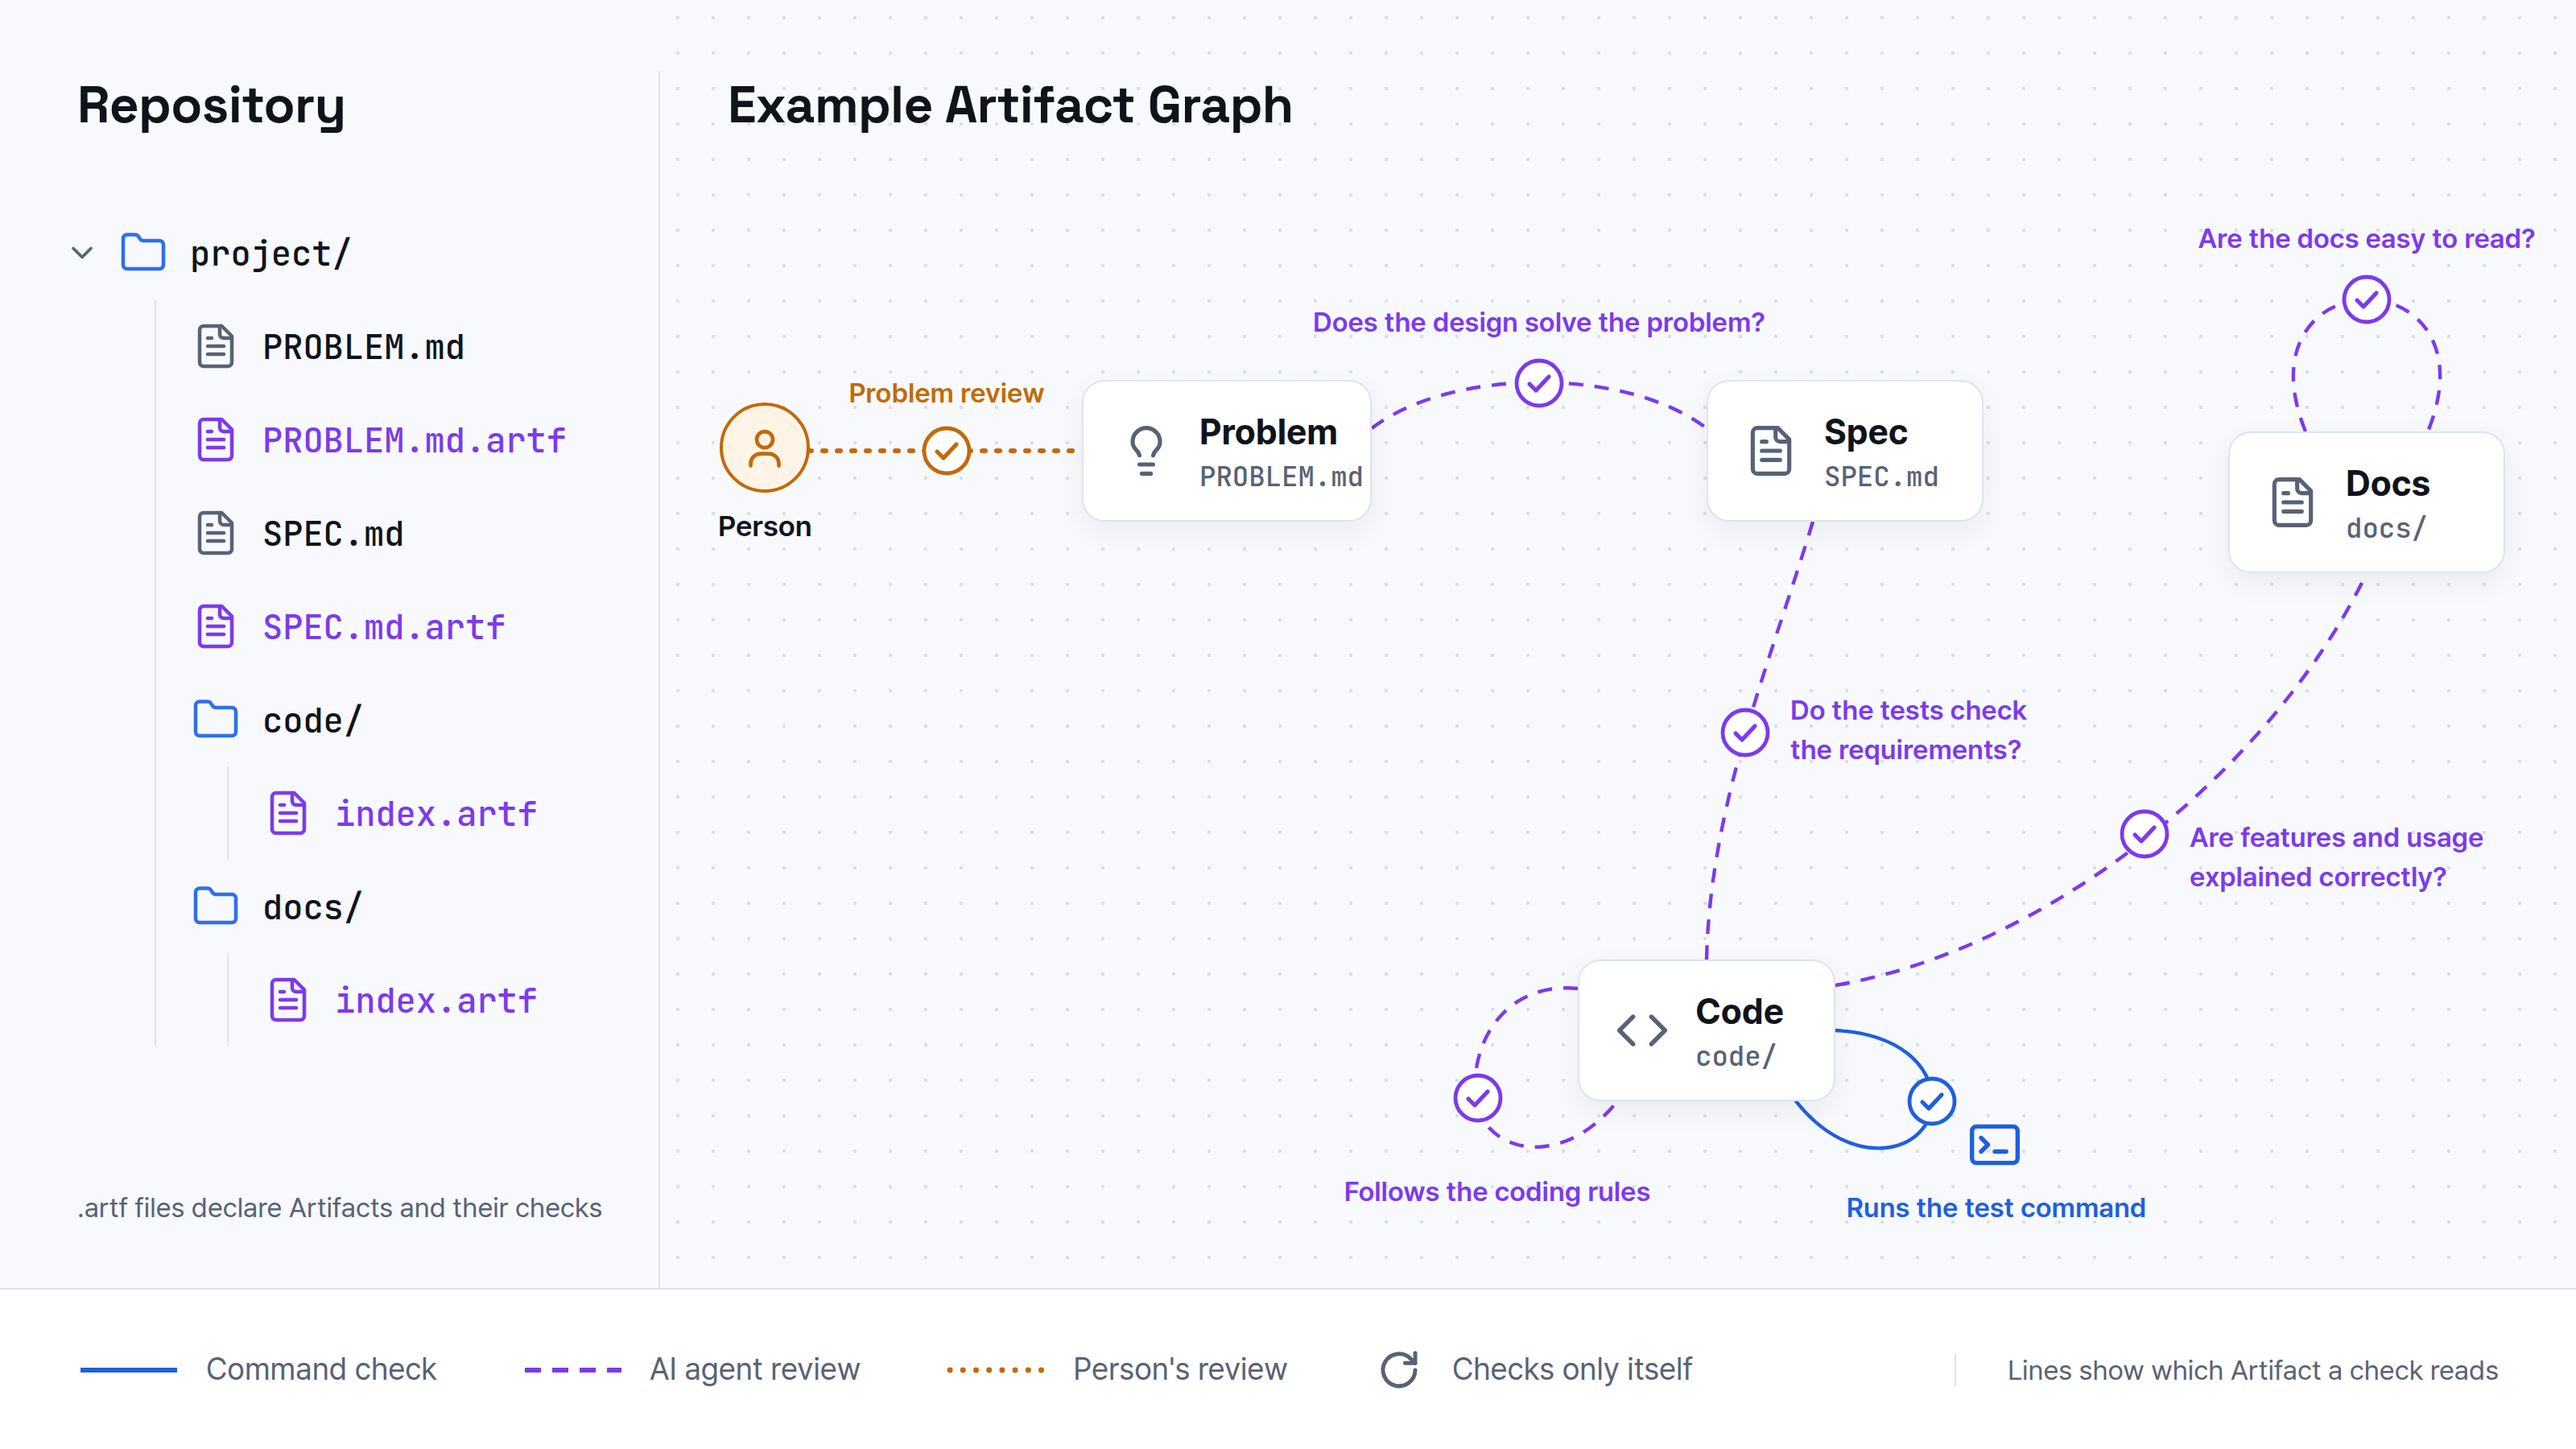
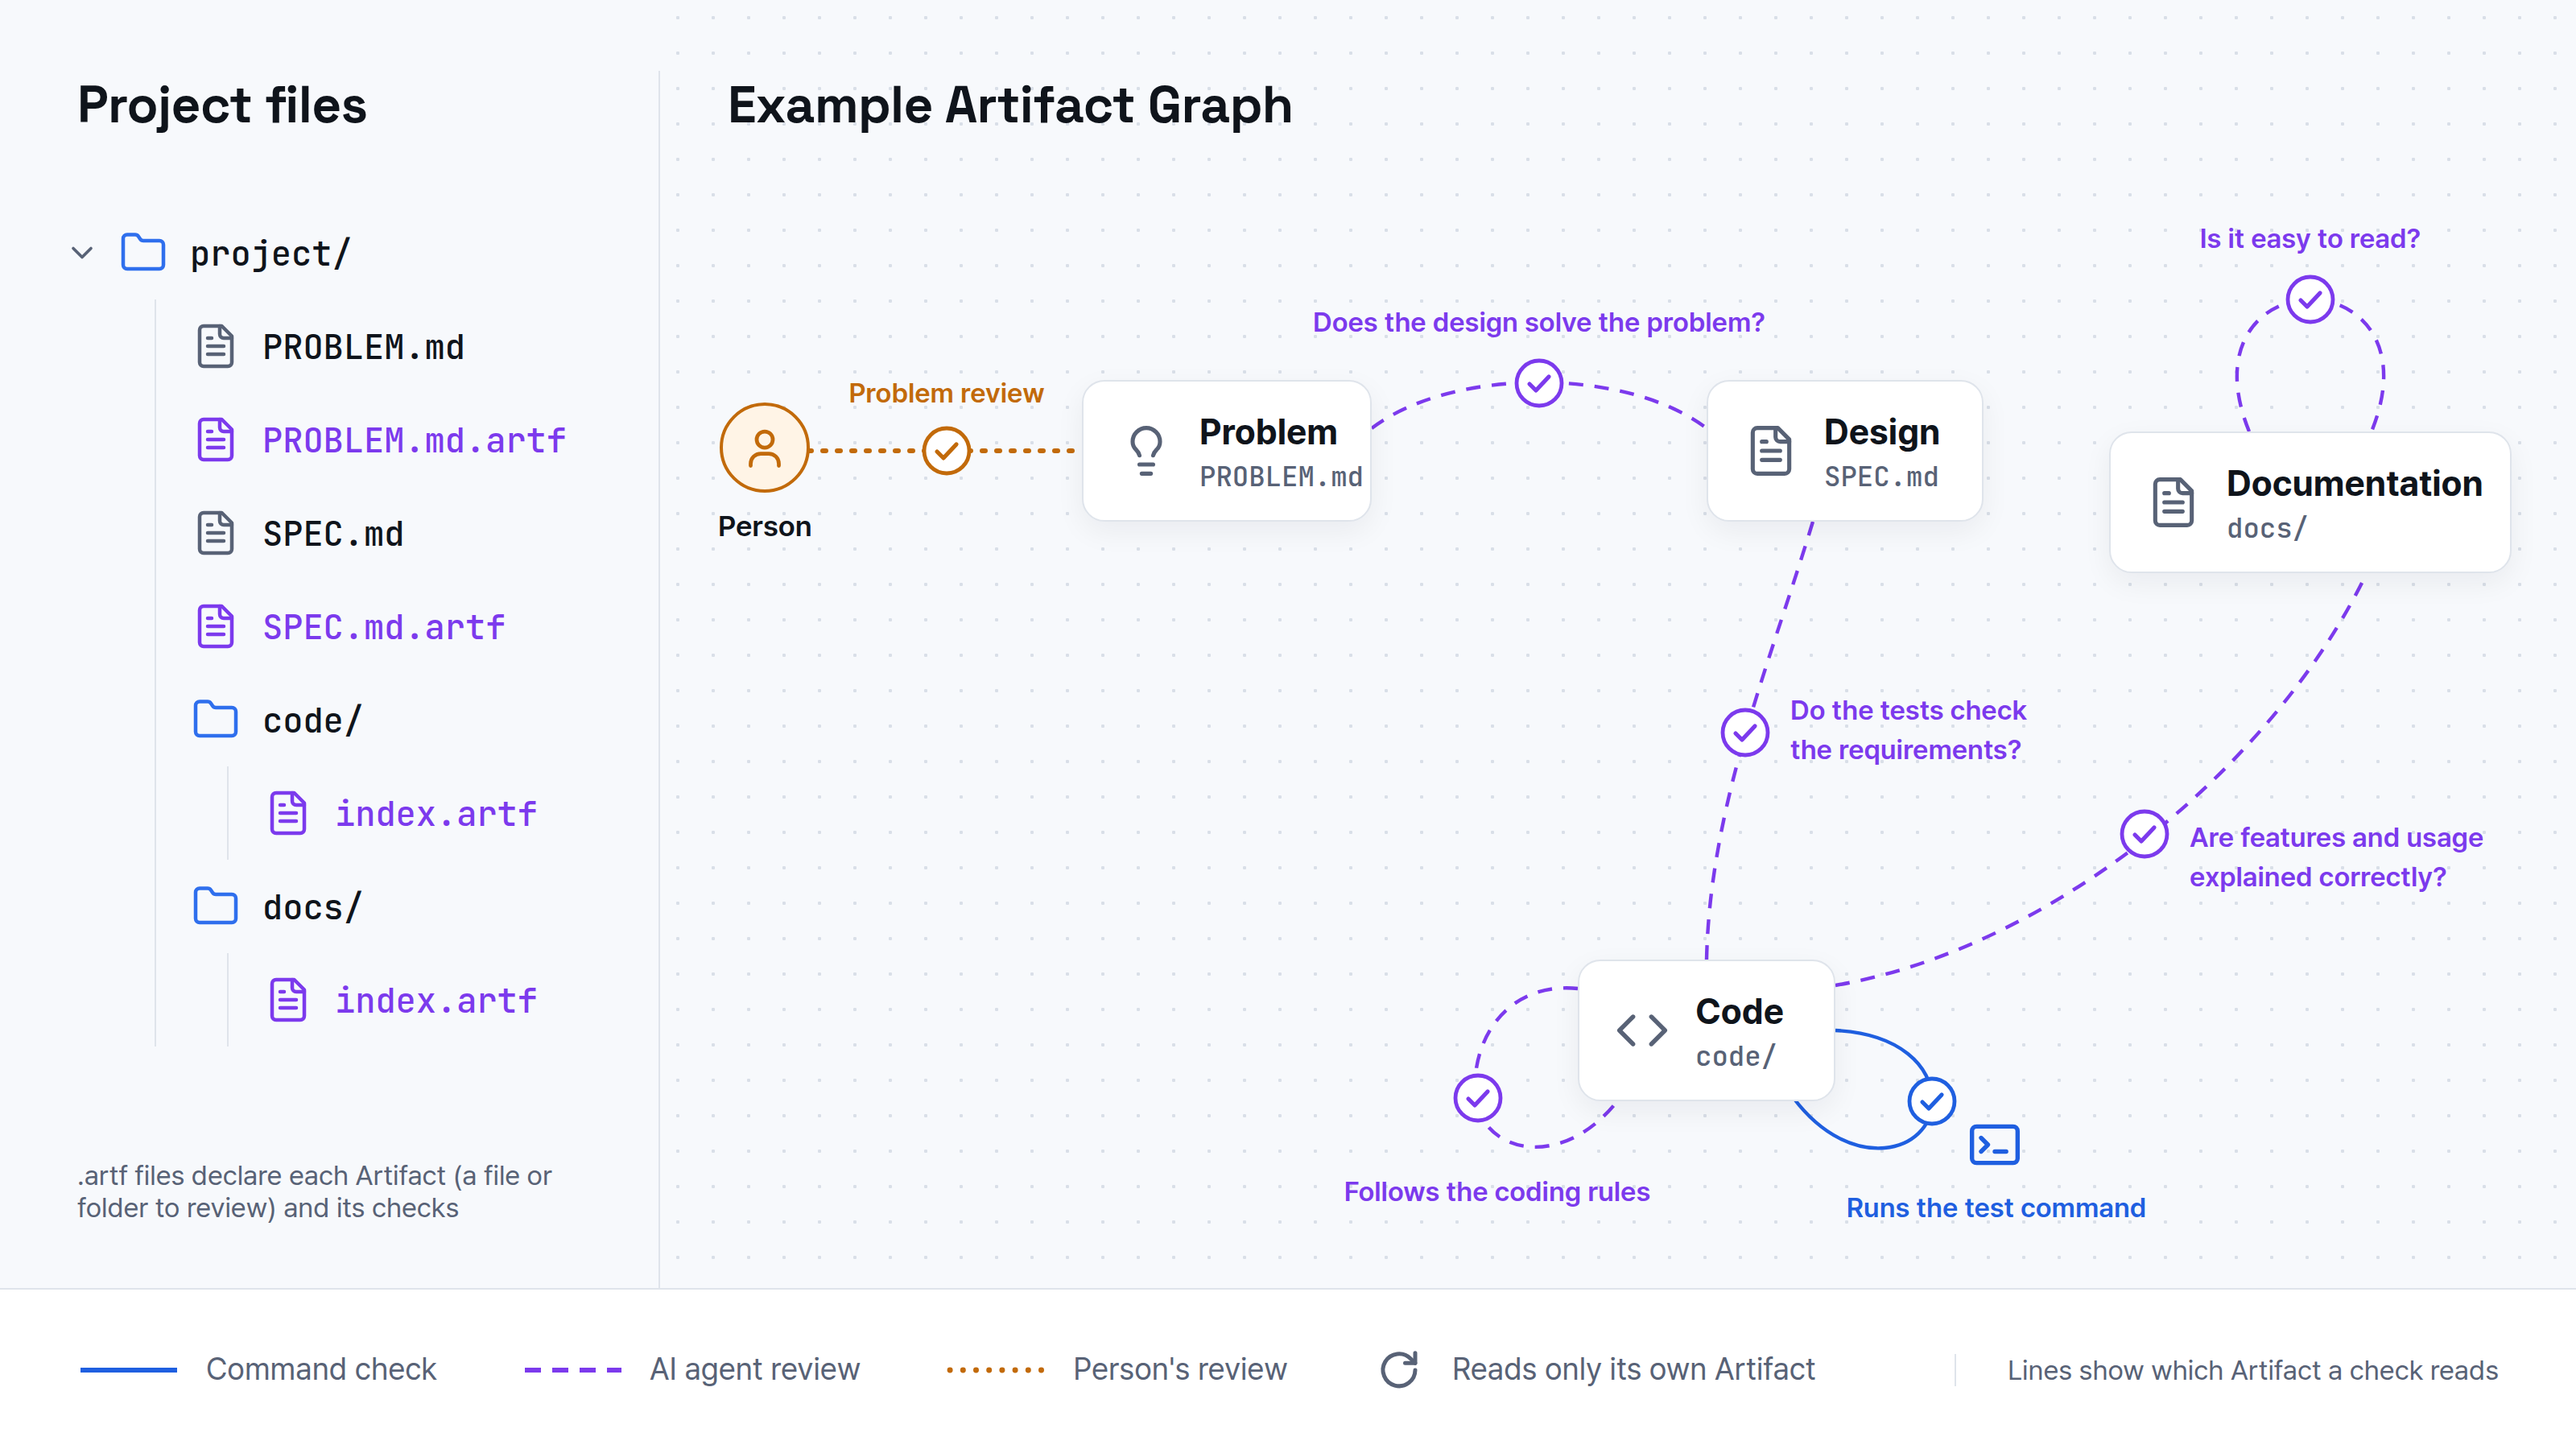
fix(others): plain labels, exact translations, Chrome under a deep TMPDIR
Address the explains-graph review: plain English labels and an Artifact
explanation in the note, localized node names, and Korean and Chinese
legends that say a line shows which Artifact a check reads. Spell out the
figure's person-review convention in the eval. Give Chrome a short TMPDIR
when the verify Run's private one is too deep for its singleton socket.

diff --git a/assets/others/graph-example.html b/assets/others/graph-example.html
@@ -99,6 +99,7 @@
     margin: 0;
     color: var(--dim);
     font-size: 17px;
+    word-break: keep-all;
   }
 
   /* ---------- The graph ---------- */
@@ -250,9 +251,9 @@
         <use href="#check" x="922" y="518"/>
         <text x="950" y="526" data-t="explainsUsage"></text>
 
-        <path class="line" d="M1022 268 C 1000 214 1030 186 1060 186 C 1090 186 1120 214 1098 268"/>
-        <use href="#check" x="1060" y="186"/>
-        <text x="1060" y="154" text-anchor="middle" data-t="readable"></text>
+        <path class="line" d="M987 268 C 965 214 995 186 1025 186 C 1055 186 1085 214 1063 268"/>
+        <use href="#check" x="1025" y="186"/>
+        <text x="1025" y="154" text-anchor="middle" data-t="readable"></text>
 
         <path class="line" d="M570 614 C 530 610 506 640 506 676 C 506 716 560 730 596 682"/>
         <use href="#check" x="508" y="682"/>
@@ -270,7 +271,7 @@
     <div class="person" style="left:36px;top:250px"><div class="face"><svg><use href="#i-person"/></svg></div><span data-t="person"></span></div>
     <div class="node" style="left:262px;top:236px;width:180px"><svg><use href="#i-idea"/></svg><div><b data-t="problem"></b><small>PROBLEM.md</small></div></div>
     <div class="node" style="left:650px;top:236px;width:172px"><svg><use href="#i-file"/></svg><div><b data-t="spec"></b><small>SPEC.md</small></div></div>
-    <div class="node" style="left:974px;top:268px;width:172px"><svg><use href="#i-file"/></svg><div><b data-t="docs"></b><small>docs/</small></div></div>
+    <div class="node" style="left:900px;top:268px;width:250px"><svg><use href="#i-file"/></svg><div><b data-t="docs"></b><small>docs/</small></div></div>
     <div class="node" style="left:570px;top:596px;width:160px"><svg><use href="#i-code"/></svg><div><b data-t="code"></b><small>code/</small></div></div>
   </section>
 
@@ -287,36 +288,36 @@
   // The figure's text in each language. A line break in a label starts a new line.
   const TEXT = {
     en: {
-      repository: "Repository",
-      note: ".artf files declare Artifacts and their checks",
+      repository: "Project files",
+      note: ".artf files declare each Artifact (a file or folder to review) and its checks",
       title: "Example Artifact Graph",
       person: "Person",
       problem: "Problem",
-      spec: "Spec",
+      spec: "Design",
       code: "Code",
-      docs: "Docs",
+      docs: "Documentation",
       reviewProblem: "Problem review",
       solvesProblem: "Does the design solve the problem?",
       testsRequirements: "Do the tests check\nthe requirements?",
       explainsUsage: "Are features and usage\nexplained correctly?",
-      readable: "Are the docs easy to read?",
+      readable: "Is it easy to read?",
       codingRules: "Follows the coding rules",
       runsTests: "Runs the test command",
       legendRuntime: "Command check",
       legendAgent: "AI agent review",
       legendHuman: "Person's review",
-      legendSelf: "Checks only itself",
+      legendSelf: "Reads only its own Artifact",
       legendLines: "Lines show which Artifact a check reads",
     },
     ko: {
-      repository: "레포지토리 구조",
-      note: ".artf에 대상과 평가 기준 정의",
+      repository: "프로젝트 파일",
+      note: ".artf에 Artifact(검토할 파일·폴더)와 평가 기준 정의",
       title: "Artifactize 검증 그래프 예시",
       person: "사람",
-      problem: "Problem",
-      spec: "Spec",
-      code: "Code",
-      docs: "Docs",
+      problem: "문제",
+      spec: "설계",
+      code: "코드",
+      docs: "문서",
       reviewProblem: "문제 정의 검토",
       solvesProblem: "문제를 해결하는 설계인가?",
       testsRequirements: "테스트가 요구사항을\n검증하는가?",
@@ -327,18 +328,18 @@
       legendRuntime: "실행 검증",
       legendAgent: "Agent 평가",
       legendHuman: "사람 검토",
-      legendSelf: "자체 평가",
-      legendLines: "연결선은 평가 관계를 나타냅니다",
+      legendSelf: "자기 Artifact만 읽는 평가",
+      legendLines: "연결선은 평가가 읽는 Artifact를 나타냅니다",
     },
     zh: {
-      repository: "仓库结构",
-      note: "在 .artf 中定义对象和评估标准",
+      repository: "项目文件",
+      note: "在 .artf 中定义 Artifact（要审查的文件或文件夹）及其评估标准",
       title: "Artifactize 验证图示例",
       person: "人",
-      problem: "Problem",
-      spec: "Spec",
-      code: "Code",
-      docs: "Docs",
+      problem: "问题",
+      spec: "设计",
+      code: "代码",
+      docs: "文档",
       reviewProblem: "审查问题定义",
       solvesProblem: "设计是否解决了问题？",
       testsRequirements: "测试是否验证了需求？",
@@ -349,8 +350,8 @@
       legendRuntime: "执行验证",
       legendAgent: "Agent 评估",
       legendHuman: "人工审查",
-      legendSelf: "自我评估",
-      legendLines: "连线表示评估关系",
+      legendSelf: "只读取自身 Artifact 的评估",
+      legendLines: "连线表示评估读取的 Artifact",
     },
   };
 
